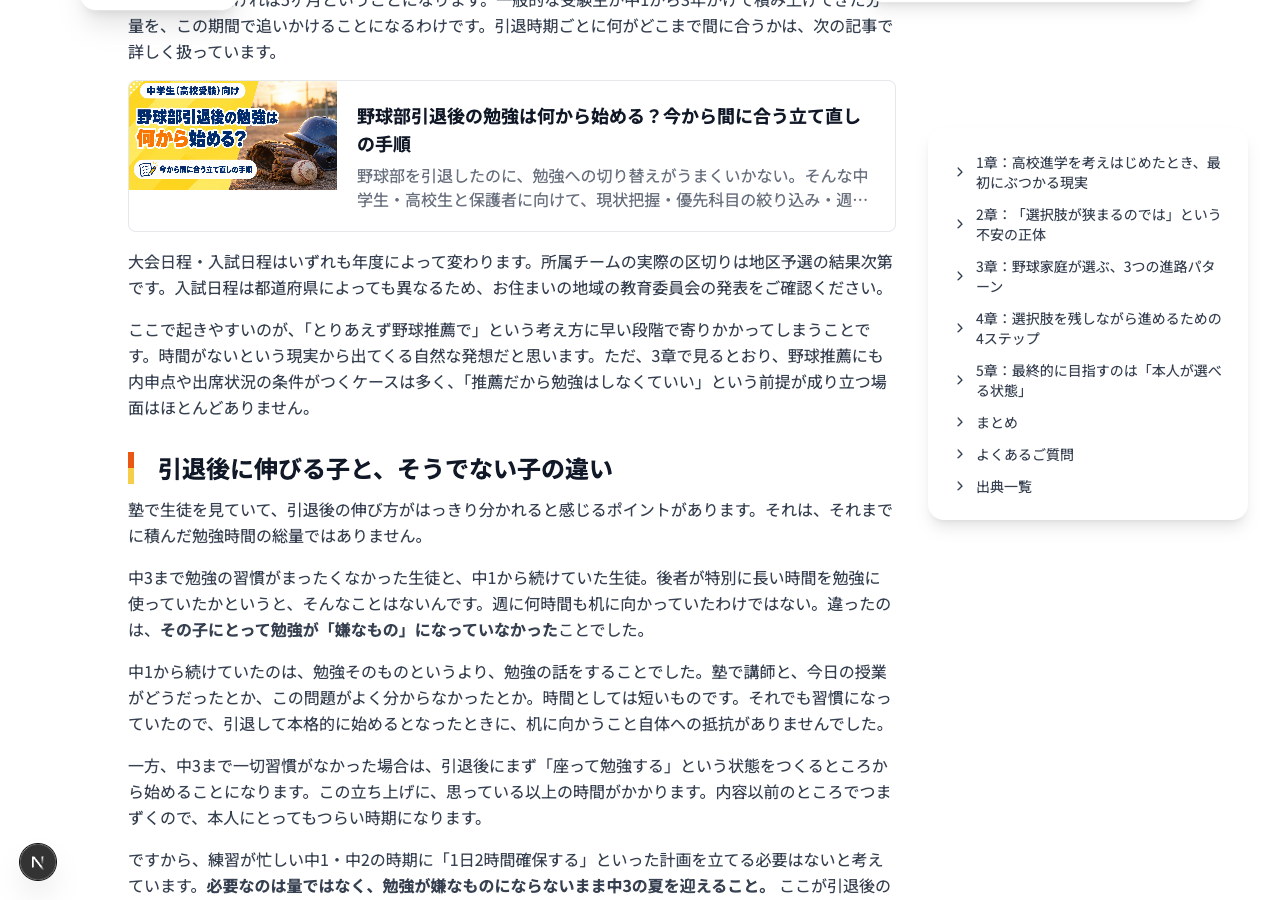
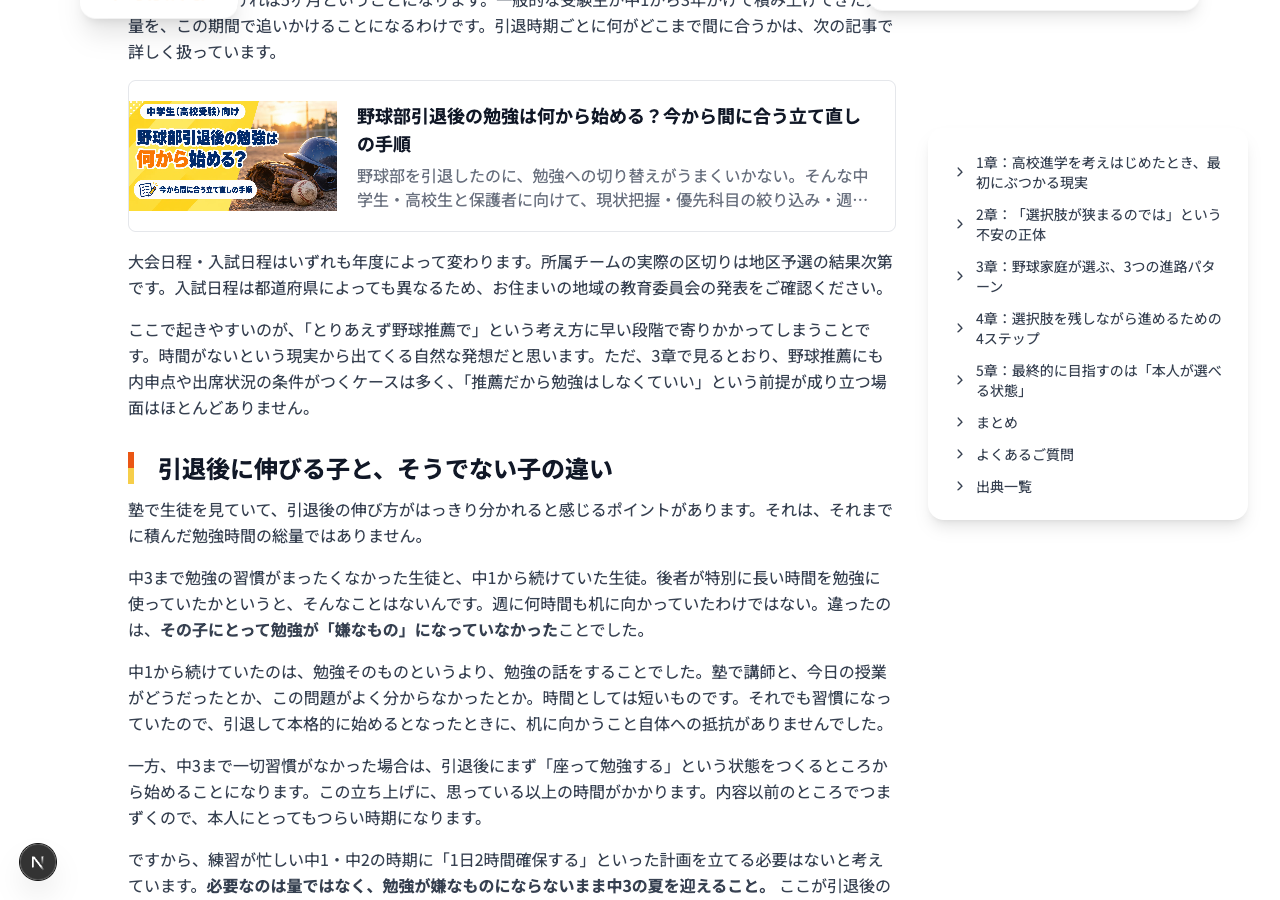
blog: PC 版リンクカードのサムネ下にできていた隙間を上下中央寄せで解消。前コミット f6eadeb で `sm:items-start` + `sm:self-start` にしたことで、テキストが縦に長い (タイトル 2 行 + 説明 2 行) 場合にサムネが上端に貼り付き、サムネ下に空白が残っていた。`items-start` → `sm:items-center` に変更し、サムネの `sm:self-start` も削除。これで flex-row 時にサムネとテキストが縦中央で揃い、サムネの上下に残る余白が等分される (視覚的に空白が気にならない)。aspect-ratio:1

Changed region(s): [[0.0938, 0.0933, 0.2812, 0.2489], [0.0625, 0.0, 0.1875, 0.0311]]

diff --git a/app/[locale]/blog/[slug]/page.tsx b/app/[locale]/blog/[slug]/page.tsx
@@ -405,11 +405,11 @@ export default async function BlogPostPage(props: {
                           <a
                             href={cleanHref}
                             {...(ctaTrackId ? { 'data-track-cta': ctaTrackId } : {})}
-                            className="not-prose flex flex-col sm:flex-row sm:items-start my-4 border border-gray-200 rounded-lg overflow-hidden hover:border-gray-400 hover:bg-gray-50 transition-colors no-underline group"
+                            className="not-prose flex flex-col sm:flex-row sm:items-center my-4 border border-gray-200 rounded-lg overflow-hidden hover:border-gray-400 hover:bg-gray-50 transition-colors no-underline group"
                           >
                             {/* サムネイル: スマホは全幅、PC は左 180-200px、どちらも 1200/630 の比率を維持。
-                                sm:items-start + サムネの self-start で、テキストが長くてもサムネが縦に引き伸ばされない */}
-                            <span className="block w-full sm:w-44 md:w-52 sm:flex-none sm:self-start bg-gray-100 overflow-hidden" style={{ aspectRatio: '1200 / 630' }}>
+                                テキストが縦に長くてもサムネが引き伸ばされず、残り余白はサムネ上下で等分される */}
+                            <span className="block w-full sm:w-44 md:w-52 sm:flex-none bg-gray-100 overflow-hidden" style={{ aspectRatio: '1200 / 630' }}>
                               {meta?.image && (
                                 <img
                                   src={meta.image}
